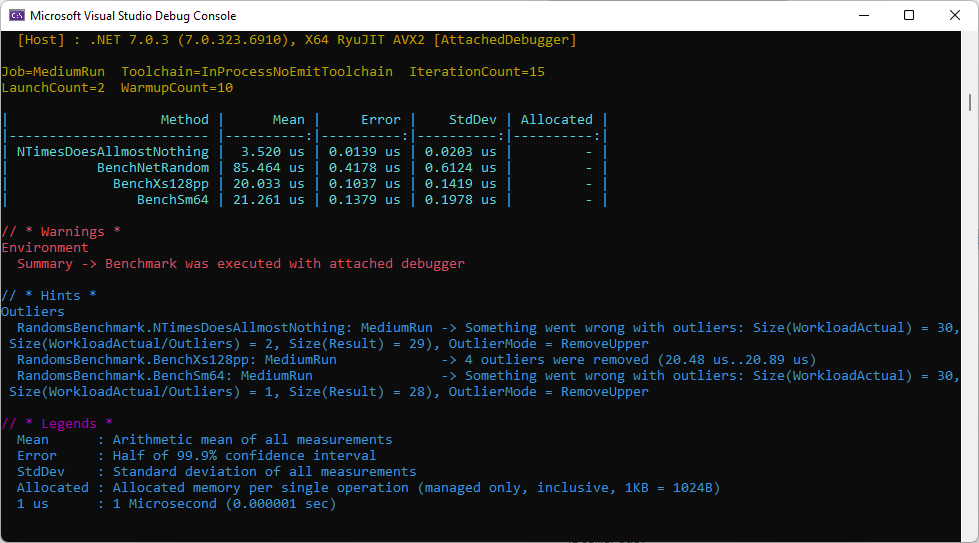
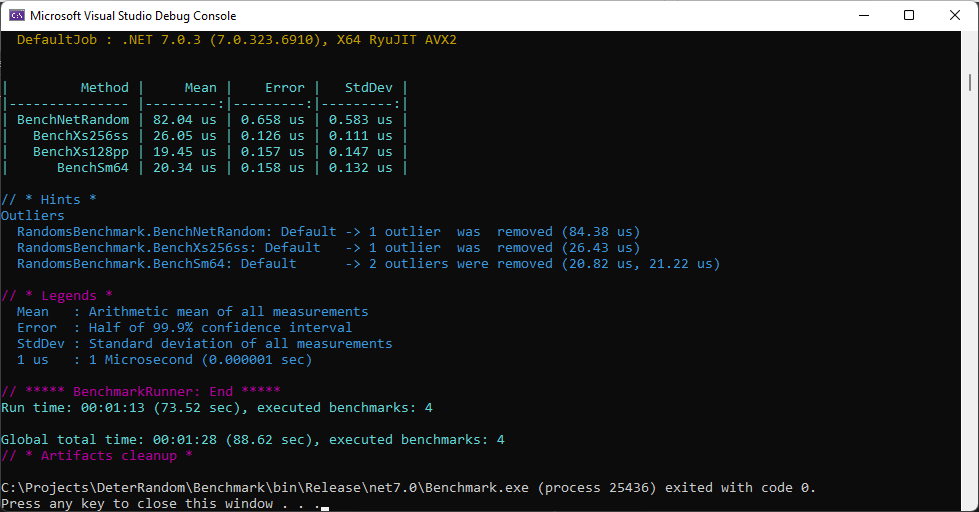
Xs256 previous bechmark

diff --git a/Benchmark/RandomsBenchmark.cs b/Benchmark/RandomsBenchmark.cs
@@ -11,6 +11,7 @@ public class RandomsBenchmark
     private const int N = 10000;
 
     private readonly Random net = new Random(42);
+    private readonly RandomXs256ss xs256ss = RandomXs256ss.Create(42);
     private readonly RandomXs128pp xs128pp = RandomXs128pp.Create(42);
     private readonly RandomSm64 sm64 = RandomSm64.Create(42);
 
@@ -25,6 +26,8 @@ public class RandomsBenchmark
     }
     [Benchmark]
     public void BenchNetRandom() => NRandomNet();
+    [Benchmark]
+    public void BenchXs256ss() => NRandomXs256ss();
     [Benchmark]
     public void BenchXs128pp() => NRandomXs128pp();
     [Benchmark]
@@ -43,7 +46,19 @@ public class RandomsBenchmark
         }
         return result;
     }
-
+    public long NRandomXs256ss()
+    {
+        long result = 0;
+        for (int i = 0; i < N; i++)
+        {
+            int next = xs256ss.Next(1000);
+            unchecked
+            {
+                result += next;
+            }
+        }
+        return result;
+    }
     public long NRandomXs128pp()
     {
         long result = 0;
